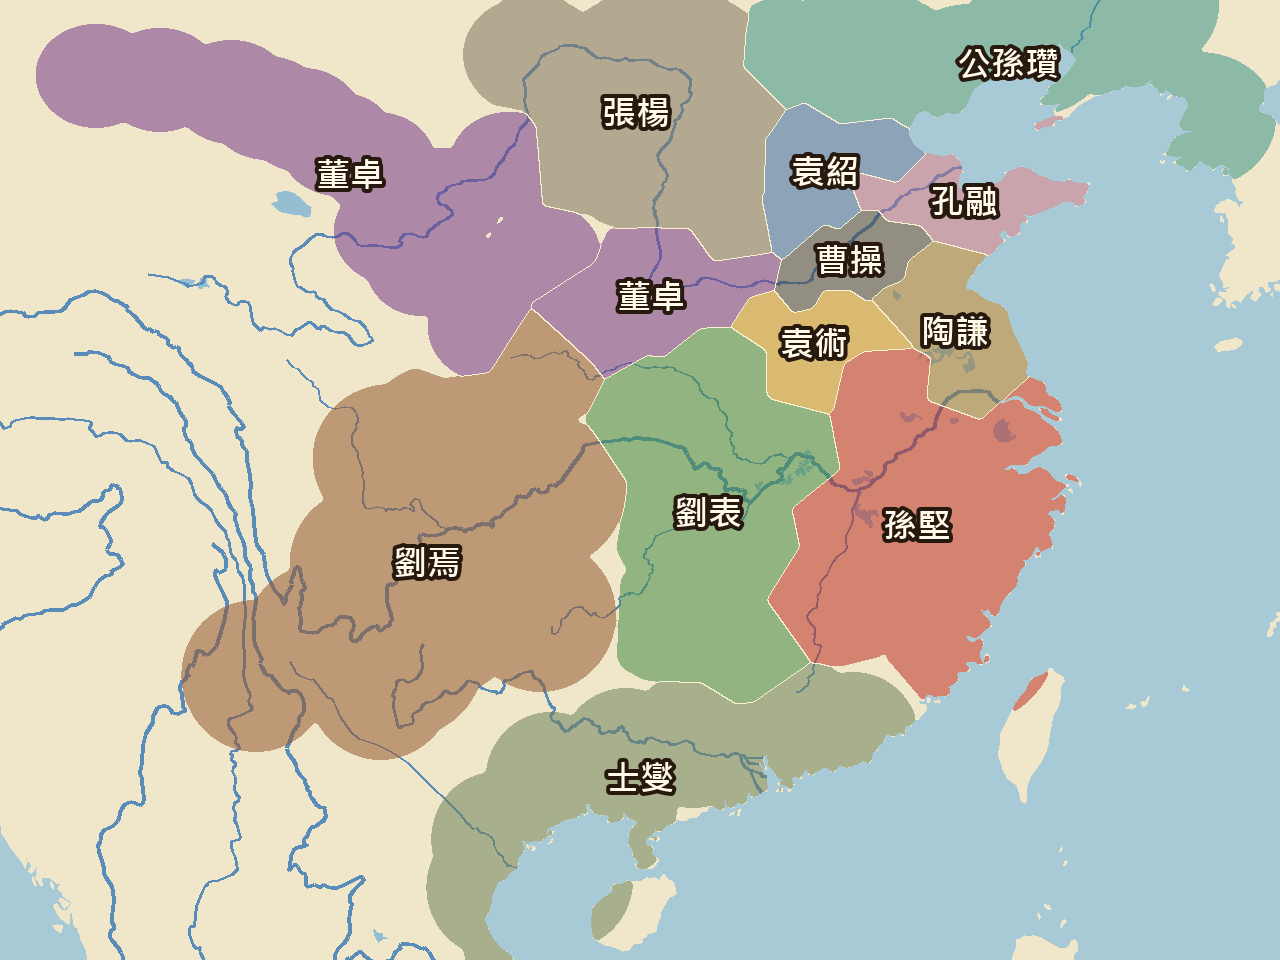
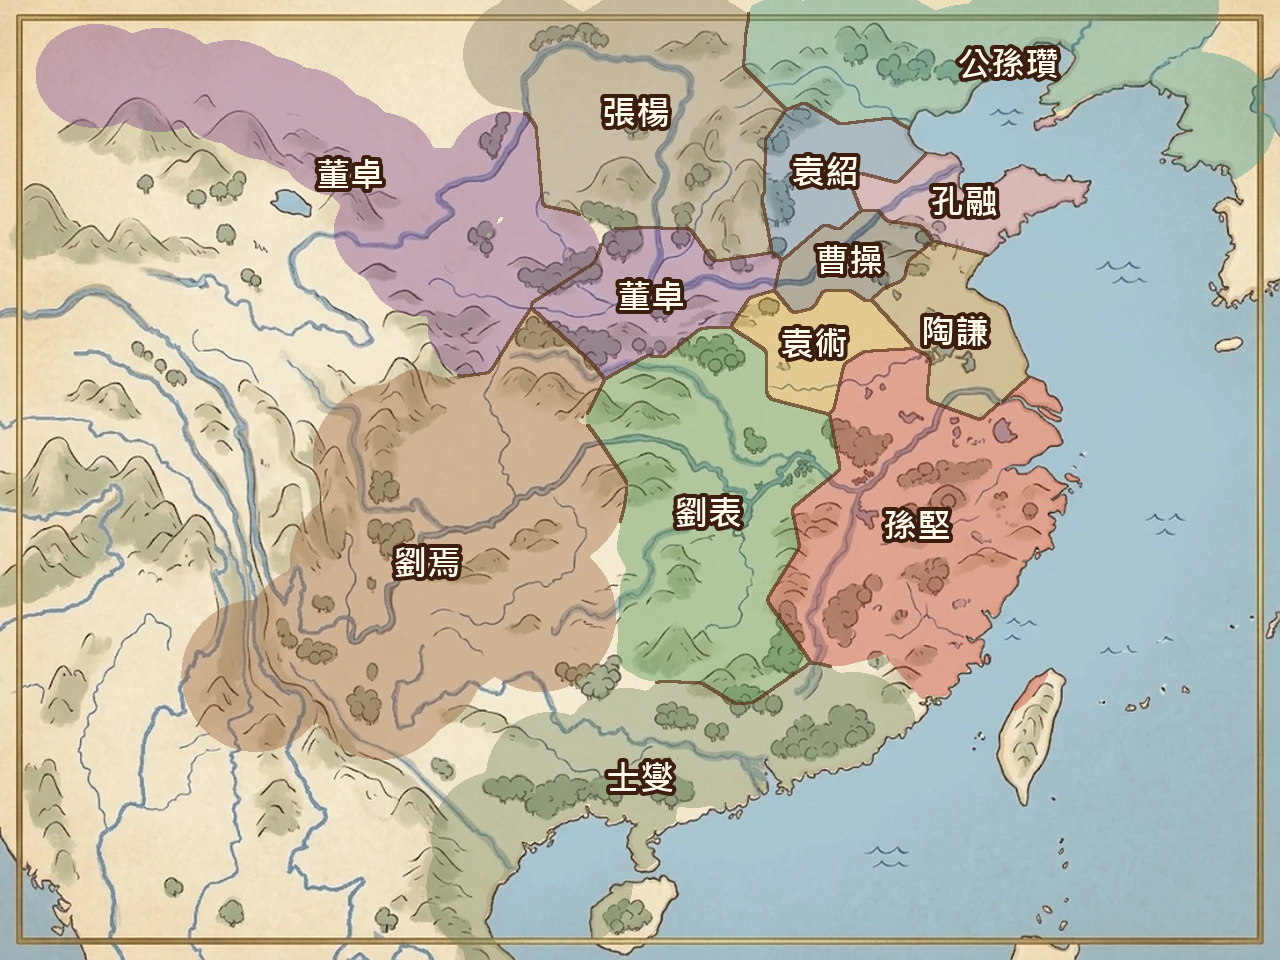
design(lobby): 幕府大廳設計稿 v3：Q 版武將、勢力圖融入窗景、季節特效（UI-2-0125）

diff --git a/Design System/design_handoff/lobby-hall/index.html b/Design System/design_handoff/lobby-hall/index.html
@@ -55,20 +55,42 @@
   .wall-more { position:absolute; left:18px; right:18px; bottom:14px; height:44px; border-radius:8px; text-align:center; line-height:44px; font-family:var(--font-headline); font-size:20px; color:#FFE088; background:rgba(0,0,0,.4); border:1px solid #D4AF37; }
 
   /* 中央天下勢力圖（E-4）：底圖 1280×960 縮放顯示，州界與勢力色由執行期依 han13 遮罩上色 */
-  .sandbox { position:absolute; left:600px; top:116px; width:720px; height:540px; border-radius:10px; z-index:3; overflow:hidden;
-    background:url(map-preview.png) center / cover no-repeat; border:4px solid #D4AF37; box-shadow:0 0 0 2px #5a3a10, 0 24px 48px rgba(0,0,0,.6); }
-  .sandbox-label { position:absolute; left:810px; top:126px; width:300px; height:40px; line-height:40px; text-align:center; z-index:4; border-radius:20px; background:rgba(45,30,0,.78); border:1px solid #D4AF37; font-family:var(--font-headline); font-size:24px; color:#FFE088; letter-spacing:.3em; }
-  .stage { position:absolute; top:600px; width:180px; height:44px; border-radius:22px; text-align:center; line-height:44px; z-index:4; font-family:var(--font-headline); font-size:20px; }
+  .sandbox { position:absolute; left:600px; top:150px; width:720px; height:520px; z-index:3;
+    background:url(map-preview.png) center / cover no-repeat;
+    -webkit-mask-image: radial-gradient(ellipse 50% 50% at 50% 50%, #000 62%, rgba(0,0,0,.55) 80%, transparent 100%);
+            mask-image: radial-gradient(ellipse 50% 50% at 50% 50%, #000 62%, rgba(0,0,0,.55) 80%, transparent 100%); }
+  .season-tint { position:absolute; left:600px; top:150px; width:720px; height:520px; z-index:3; pointer-events:none; mix-blend-mode:soft-light;
+    -webkit-mask-image: radial-gradient(ellipse 50% 50% at 50% 50%, #000 60%, transparent 100%); mask-image: radial-gradient(ellipse 50% 50% at 50% 50%, #000 60%, transparent 100%); }
+  body[data-season="spring"] .season-tint { background: rgba(255,170,200,.35); }
+  body[data-season="summer"] .season-tint { background: rgba(120,220,140,.30); }
+  body[data-season="autumn"] .season-tint { background: rgba(255,140,40,.45); }
+  body[data-season="winter"] .season-tint { background: rgba(220,235,255,.65); mix-blend-mode:screen; opacity:.45; }
+  .fx { position:absolute; inset:0; z-index:20; pointer-events:none; overflow:hidden; }
+  .fx i { position:absolute; display:block; border-radius:60% 0 60% 0; opacity:.85; }
+  body[data-season="spring"] .fx i { background:#F7B6C8; box-shadow:0 0 2px #fff; }
+  body[data-season="summer"] .fx i { background:#FFF6B0; border-radius:50%; box-shadow:0 0 10px 3px rgba(255,240,140,.8); width:6px !important; height:6px !important; }
+  body[data-season="autumn"] .fx i { background:#D9662A; border-radius:0 70% 0 70%; }
+  body[data-season="winter"] .fx i { background:#FFFFFF; border-radius:50%; box-shadow:0 0 4px #fff; }
+  .sandbox-label { position:absolute; left:830px; top:118px; width:260px !important; width:300px; height:40px; line-height:40px; text-align:center; z-index:4; border-radius:20px; background:rgba(45,30,0,.78); border:1px solid #D4AF37; font-family:var(--font-headline); font-size:24px; color:#FFE088; letter-spacing:.3em; }
+  .stage { position:absolute; width:170px; height:44px; border-radius:22px; text-align:center; line-height:44px; z-index:4; font-family:var(--font-headline); font-size:20px; }
   .stage.on { background:#D4AF37; color:#2D1E00; } .stage.off { background:rgba(0,0,0,.55); color:#7a7363; border:1px dashed #7a7363; }
-  .s1 { left:660px; } .s2 { left:870px; } .s3 { left:1080px; }
+  .s1, .s2, .s3 { left:1150px; } .s1 { top:250px; } .s2 { top:304px; } .s3 { top:358px; }
 
   /* 武將點位（E-5） */
-  .spot { position:absolute; width:130px; height:180px; z-index:5; text-align:center; }
-  .spot img { width:120px; height:120px; object-fit:cover; object-position:center top; border-radius:50% 50% 12px 12px; border:2px solid #4D4635; background:#1a1610; }
-  .spot .s-name { font-family:var(--font-headline); font-size:22px; font-weight:700; color:#FFF; margin-top:4px; text-shadow:0 2px 4px #000; }
-  .spot .s-rank { font-family:var(--font-label); font-size:15px; color:#FFE088; }
-  .spot .s-vol { position:absolute; top:-8px; right:-6px; width:52px; height:26px; border-radius:13px; background:#B22222; color:#FFF; font-family:var(--font-label); font-size:14px; line-height:26px; }
-  .sp1 { left:590px; top:690px; } .sp2 { left:895px; top:676px; } .sp3 { left:1200px; top:690px; }
+  /* 武將點位（E-5）：Q 版武將在大廳走動，點擊對話接任務 */
+  .npc { position:absolute; z-index:5; transform:translateX(-50%); text-align:center; }
+  .npc .body { position:relative; display:block; animation: idle 2.6s ease-in-out infinite; transform-origin:50% 100%; }
+  .npc img { display:block; filter: drop-shadow(0 0 2px rgba(255,236,190,.9)) drop-shadow(6px 10px 8px rgba(0,0,0,.45)); }
+  .npc.flip img { transform:scaleX(-1); }
+  .npc::after { content:""; position:absolute; left:15%; right:15%; bottom:-8px; height:22px; border-radius:50%; background:radial-gradient(ellipse, rgba(0,0,0,.55), transparent 70%); z-index:-1; }
+  .npc .tag { position:absolute; left:50%; bottom:-34px; transform:translateX(-50%); white-space:nowrap; padding:2px 12px; border-radius:12px; background:rgba(40,14,10,.85); border:1px solid #D4AF37; font-family:var(--font-headline); font-size:18px; color:#FFE9B0; }
+  .npc .mark { position:absolute; left:50%; top:-46px; transform:translateX(-50%); width:38px; height:38px; border-radius:50%; background:radial-gradient(circle at 40% 35%, #FFE088, #D4AF37); border:2px solid #7a4a10; font:900 26px/34px var(--font-headline); color:#6a1c16; animation: bob 1.2s ease-in-out infinite; }
+  .bubble { position:absolute; z-index:8; max-width:300px; padding:12px 16px; border-radius:14px; background:#FBF3DE; border:2px solid #8A6E1F; box-shadow:0 8px 16px rgba(0,0,0,.4); font-family:var(--font-body); font-size:19px; line-height:1.45; color:#3a2410; }
+  .bubble b { color:#8A2A22; } .bubble .acts { display:flex; gap:8px; margin-top:8px; }
+  .bubble .acts span { padding:3px 12px; border-radius:8px; font-size:16px; background:#6a1c16; color:#FFE9B0; border:1px solid #D4AF37; }
+  .bubble::after { content:""; position:absolute; right:40px; bottom:-14px; border:12px solid transparent; border-top-color:#8A6E1F; border-bottom:0; }
+  @keyframes idle { 0%,100% { transform: translateY(0) scale(1,1); } 50% { transform: translateY(-3px) scale(1,1.015); } }
+  @keyframes bob { 0%,100% { transform: translate(-50%,0); } 50% { transform: translate(-50%,-6px); } }
 
   /* 許願祭壇（E-7） */
   .altar { position:absolute; left:24px; top:782px; width:400px; height:150px; padding:12px 16px; border-radius:12px; z-index:6; background:linear-gradient(180deg,rgba(60,40,10,.92),rgba(25,18,6,.95)); border:2px solid #D4AF37; }
@@ -126,11 +148,15 @@
     <div class="wall-more">展開內政牆</div>
   </section>
 
-  <div class="spot sp1"><img src="../../../assets/resources/sprites/generals/avatars/zhang_fei_avatar.png" alt=""><div class="s-name">張飛</div><div class="s-rank">偏將軍</div><span class="s-vol">自薦</span></div>
-  <div class="spot sp2"><img src="../../../assets/resources/sprites/generals/avatars/guan_yu_avatar.png" alt=""><div class="s-name">關羽</div><div class="s-rank">偏將軍</div></div>
-  <div class="spot sp3"><img src="../../../assets/resources/sprites/generals/avatars/wei_yan_avatar.png" alt=""><div class="s-name">魏延</div><div class="s-rank">牙門將</div></div>
+  <div class="npc " style="left:640px; top:560px;"><span class="body"><img src="chibi/guanyu.png" style="height:300px" alt=""></span><span class="tag">關羽</span></div>
+  <div class="npc " style="left:960px; top:610px;"><span class="body"><img src="chibi/liubei.png" style="height:262px" alt=""></span><span class="tag">劉備</span></div>
+  <div class="npc flip" style="left:1280px; top:584px;"><span class="body"><img src="chibi/zhangfei.png" style="height:282px" alt=""></span><span class="tag">張飛</span></div>
+  <div class="npc " style="left:800px; top:670px;"><span class="body"><img src="chibi/zhugeliang.png" style="height:256px" alt=""><span class="mark">!</span></span><span class="tag">諸葛亮</span></div>
+  <div class="npc flip" style="left:1120px; top:666px;"><span class="body"><img src="chibi/huangzhong.png" style="height:258px" alt=""></span><span class="tag">黃忠</span></div>
+  <div class="bubble" style="left:1000px; top:520px;"><b>張飛：</b>大哥！烏巢糧倉守備鬆散，俺老張今夜就去劫了它！<div class="acts"><span>交給你</span><span>再議</span></div></div>
 
   <div class="sandbox"></div>
+  <div class="season-tint"></div>
   <div class="sandbox-label">天下勢力圖</div>
   <div class="stage s1 on">S1 中原統一</div>
   <div class="stage s2 off">S2 邊境征伐</div>
@@ -158,5 +184,12 @@
     <div class="dock-btn">培育</div>
     <div class="dock-btn">商城</div>
   </nav>
+  <div class="fx" id="fx"></div>
+<script>
+  (function(){ var fx=document.getElementById('fx'), r=0.37; var k=0; function rnd(){ var x=Math.sin(++k*12.9898)*43758.5453; return x-Math.floor(x); }
+    for (var i=0;i<90;i++){ var e=document.createElement('i'), z=12+rnd()*16;
+      e.style.left=(rnd()*1920)+'px'; e.style.top=(rnd()*1080)+'px'; e.style.width=z+'px'; e.style.height=(z*0.7)+'px';
+      e.style.transform='rotate('+(rnd()*360)+'deg)'; e.style.opacity=(0.45+rnd()*0.5); fx.appendChild(e); } })();
+</script>
 </body>
 </html>

diff --git a/docs/agent-briefs/tasks/UI/UI-2-0125.md b/docs/agent-briefs/tasks/UI/UI-2-0125.md
@@ -1,0 +1,18 @@
+---
+id: UI-2-0125
+title: 幕府大廳設計稿 v3（Q 版武將、勢力圖融入窗景、季節特效）
+status: done
+priority: P1
+started_at: 2026-11-03T15:26:42Z
+started_by_agent: ClaudeCode_opus-5-5
+---
+
+# UI-2-0125 幕府大廳設計稿 v3
+
+使用者定案：大廳武將改用 Q 版，可走動、對話、換人互動接任務。
+- 武將點位改為 Q 版 NPC（暫用蜀漢五將基準圖去背：chibi/*.png），含腳下陰影、名牌、任務「!」標記、對話泡泡與回應鈕。
+- 勢力圖拿掉硬框，橢圓淡出融入四季窗景；依季節疊色（season-tint）。
+- 全畫面季節飄落特效層（.fx，春花瓣／夏螢火／秋葉／冬雪，可飄過 UI）。
+- 勢力圖底圖定案：data/hall-map/han13-terrain.png（Gemini Q 版地形，1280×960，與 han13-mask 對位）。
+
+notes: 使用者建議移除背景後牆左右格門以露出大片窗景，需重畫四季背景（Gemini）；NPC 走動／對話系統與轉換接線續於 UI-2-0123。
